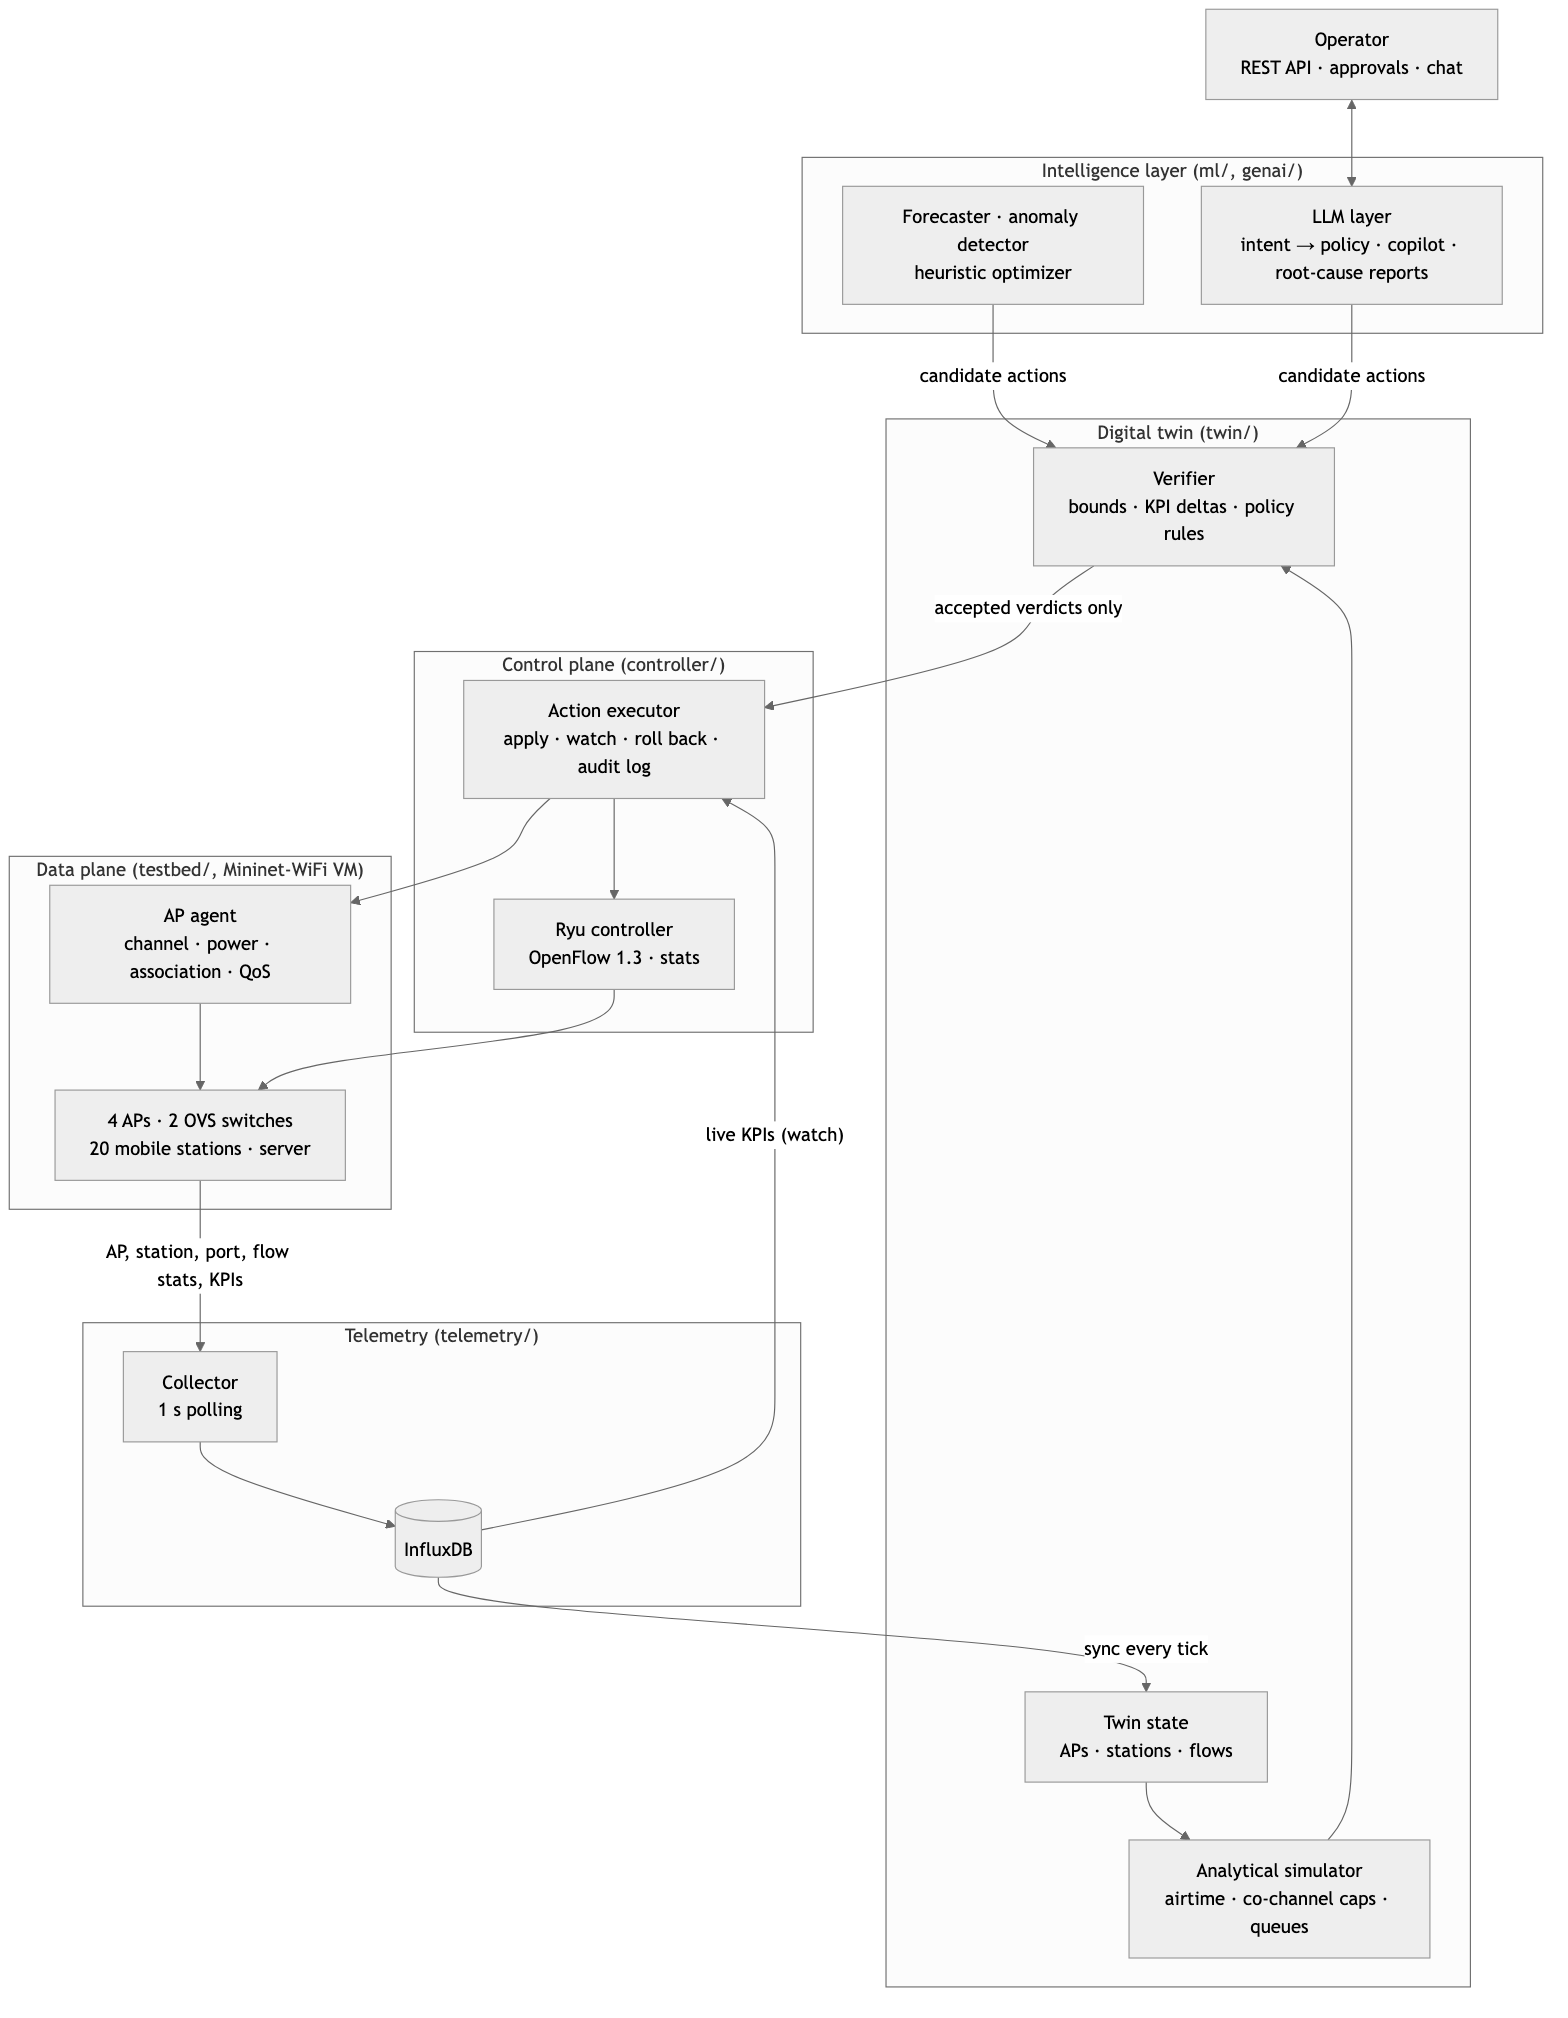
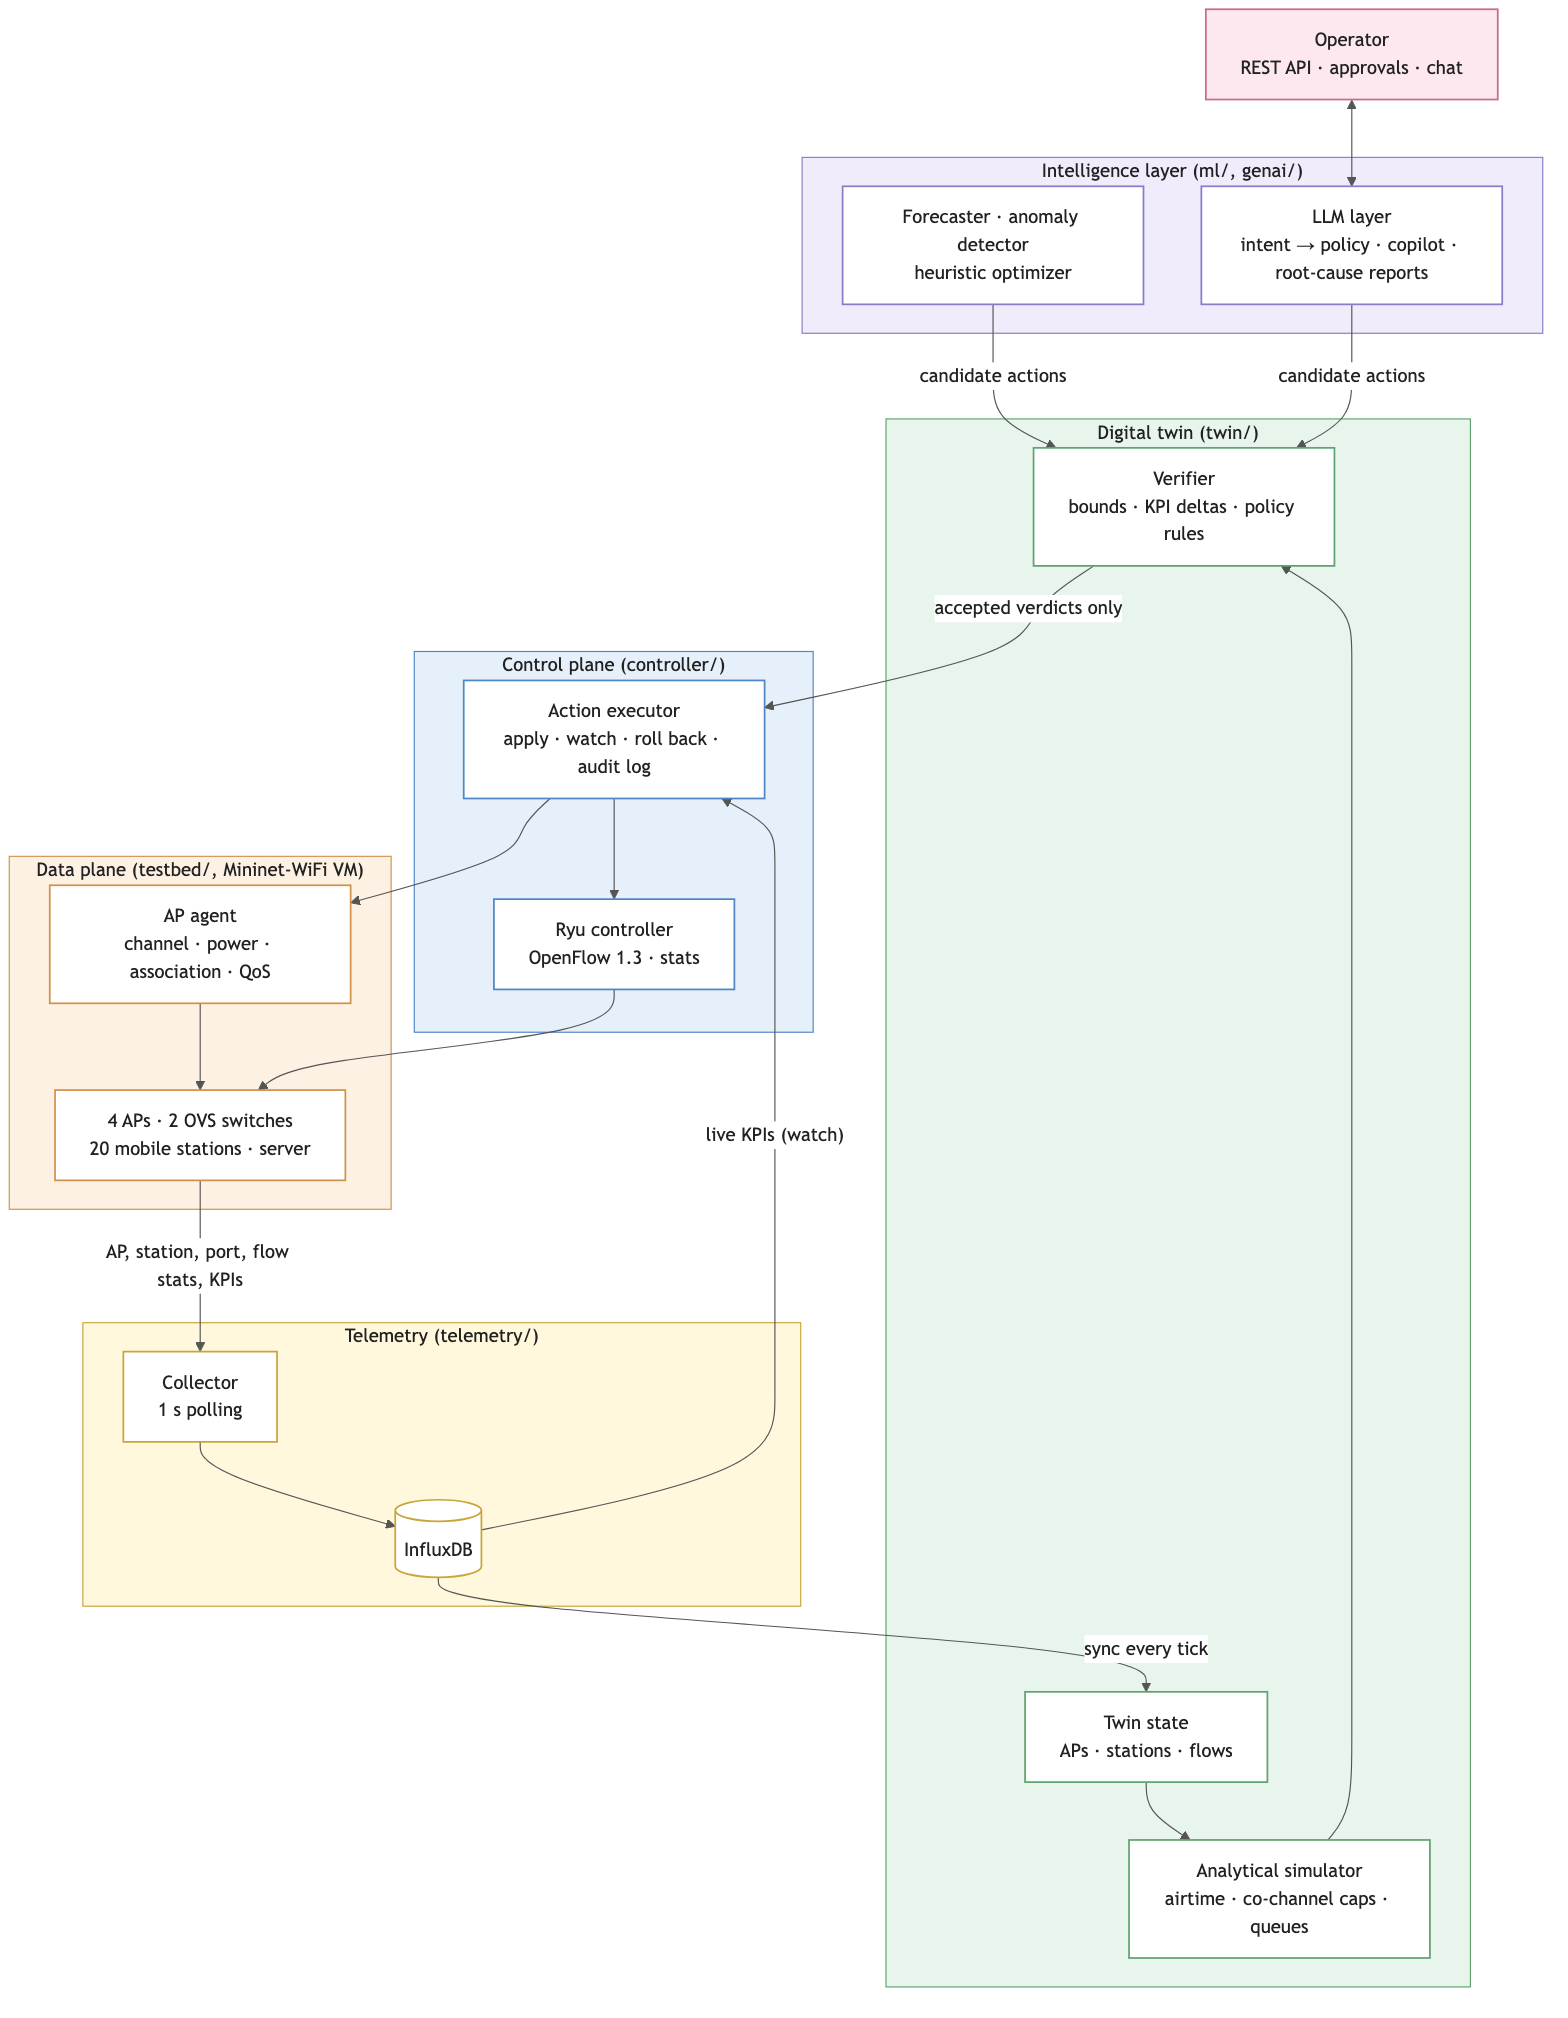
style: add mermaid diagram themes, styling, and structural boxes to documentation figures

diff --git a/docs/report/03_architecture.md b/docs/report/03_architecture.md
@@ -7,6 +7,7 @@
 The system is a closed control loop around an emulated campus Wi-Fi network. Its central design choice is the position of the digital twin. The twin sits **between the components that propose changes and the component that makes them**, so every proposed change, whether it comes from a heuristic optimizer or from a language model, is tested on the twin before it can reach the network. Figure 3.1 shows the four layers and the telemetry path beside them.
 
 ```mermaid
+%%{init: {"theme": "base", "themeVariables": {"primaryColor": "#ffffff", "primaryTextColor": "#222222", "primaryBorderColor": "#666666", "lineColor": "#555555", "edgeLabelBackground": "#ffffff", "clusterBkg": "#fafafa", "clusterBorder": "#999999"}}}%%
 flowchart TB
     OP["Operator<br/>REST API · approvals · chat"]
 
@@ -48,6 +49,24 @@ flowchart TB
     NET -- "AP, station, port, flow stats, KPIs" --> COL --> DB
     DB -- "sync every tick" --> ST
     DB -- "live KPIs (watch)" --> EXE
+
+    style INTEL fill:#F1ECFB,stroke:#8B7BC8,color:#222222
+    style TWIN fill:#E8F5EC,stroke:#5FA36E,color:#222222
+    style CTRL fill:#E6F0FA,stroke:#4F86C6,color:#222222
+    style DATA fill:#FDF1E3,stroke:#D4914A,color:#222222
+    style TEL fill:#FFF8DC,stroke:#C9A43A,color:#222222
+    classDef op fill:#FCE8EE,stroke:#C96B86,stroke-width:1.5px
+    classDef intel fill:#ffffff,stroke:#8B7BC8,stroke-width:1.5px
+    classDef twin fill:#ffffff,stroke:#5FA36E,stroke-width:1.5px
+    classDef ctrl fill:#ffffff,stroke:#4F86C6,stroke-width:1.5px
+    classDef data fill:#ffffff,stroke:#D4914A,stroke-width:1.5px
+    classDef tel fill:#ffffff,stroke:#C9A43A,stroke-width:1.5px
+    class OP op
+    class ML,LLM intel
+    class ST,SIM,VER twin
+    class EXE,RYU ctrl
+    class AGENT,NET data
+    class COL,DB tel
 ```
 
 *Figure 3.1: Layers of the system. Decisions flow down the middle and telemetry flows up the side. The only arrow into the control plane comes from the verifier.*
@@ -100,15 +119,24 @@ Two parts of the network are outside OpenFlow's reach, and this shapes the contr
 Figure 3.2 follows one tick of the control loop (every 5 s), from measurement to a kept or rolled-back change.
 
 ```mermaid
+%%{init: {"theme": "base", "themeVariables": {"primaryTextColor": "#222222", "lineColor": "#555555", "actorBkg": "#ffffff", "actorBorder": "#777777", "actorTextColor": "#222222", "signalColor": "#444444", "signalTextColor": "#222222", "labelBoxBkgColor": "#FCE8EE", "labelBoxBorderColor": "#C96B86", "loopTextColor": "#222222", "sequenceNumberColor": "#ffffff"}}}%%
 sequenceDiagram
     autonumber
+    box rgb(253,241,227) Testbed VM
     participant N as Network (VM)
+    participant A as AP agent
+    end
+    box rgb(255,248,220) Telemetry
     participant C as Collector
     participant DB as InfluxDB
+    end
+    box rgb(230,240,250) Control
     participant L as Control loop
-    participant T as Twin
     participant X as Executor
-    participant A as AP agent
+    end
+    box rgb(232,245,236) Digital twin
+    participant T as Twin
+    end
 
     loop every 1 s
         C->>N: GET stats
@@ -149,6 +177,7 @@ The result is a `Verdict`: accepted or not, the predicted and baseline KPIs, the
 **The LLM paths** enter the same pipeline at the verifier, as Figure 3.3 shows. An operator intent is parsed into a `Policy` under a JSON schema. A deterministic compiler, not the model, turns the policy into actions, and those are verified like any other proposal. The copilot and the root-cause explainer read the network through the tool layer and can ask the twin about a change. What they propose is recorded with its verdict and returned to the operator as a suggestion. They hold no means of applying it.
 
 ```mermaid
+%%{init: {"theme": "base", "themeVariables": {"primaryColor": "#ffffff", "primaryTextColor": "#222222", "primaryBorderColor": "#666666", "lineColor": "#555555", "edgeLabelBackground": "#ffffff"}}}%%
 flowchart TB
     Q["Operator question<br/>or anomaly alert"] --> AG["Copilot / explainer"]
     AG -- "get_topology · get_metrics · get_alerts" --> API["REST API"]
@@ -158,6 +187,17 @@ flowchart TB
     API --> AG
     AG --> R["Answer or report<br/>+ evidence + suggested actions"]
     R -. "operator approves and applies<br/>(operator token)" .-> EX["Executor"]
+
+    classDef op fill:#FCE8EE,stroke:#C96B86,stroke-width:1.5px
+    classDef intel fill:#F1ECFB,stroke:#8B7BC8,stroke-width:1.5px
+    classDef api fill:#E6F0FA,stroke:#4F86C6,stroke-width:1.5px
+    classDef twin fill:#E8F5EC,stroke:#5FA36E,stroke-width:1.5px
+    classDef out fill:#FFF8DC,stroke:#C9A43A,stroke-width:1.5px
+    class Q op
+    class AG intel
+    class API,EX api
+    class TW twin
+    class R out
 ```
 
 *Figure 3.3: The LLM's path to the network. The dotted step is taken by a person, never by the model.*

diff --git a/docs/report/05_implementation.md b/docs/report/05_implementation.md
@@ -5,6 +5,7 @@
 The system is written in Python. The controller-side and twin code run on a macOS host. The emulated network runs in an Ubuntu VM on the same machine. Figure 5.1 shows what runs where.
 
 ```mermaid
+%%{init: {"theme": "base", "themeVariables": {"primaryColor": "#ffffff", "primaryTextColor": "#222222", "primaryBorderColor": "#666666", "lineColor": "#555555", "edgeLabelBackground": "#ffffff"}}}%%
 flowchart LR
     subgraph MAC["Host (macOS, Python 3.11)"]
         API["REST API · control loop<br/>twin · executor · alert monitor"]
@@ -29,6 +30,18 @@ flowchart LR
     GEN --> API
     GEN --> OLL
     GRA --> INF
+
+    style MAC fill:#E6F0FA,stroke:#4F86C6,color:#222222
+    style DOCKER fill:#FFF8DC,stroke:#C9A43A,color:#222222
+    style VM fill:#FDF1E3,stroke:#D4914A,color:#222222
+    classDef host fill:#ffffff,stroke:#4F86C6,stroke-width:1.5px
+    classDef store fill:#ffffff,stroke:#C9A43A,stroke-width:1.5px
+    classDef vm fill:#ffffff,stroke:#D4914A,stroke-width:1.5px
+    classDef llm fill:#F1ECFB,stroke:#8B7BC8,stroke-width:1.5px
+    class API,COL host
+    class GEN,OLL llm
+    class INF,GRA store
+    class MN,AG,RY vm
 ```
 
 *Figure 5.1: Deployment. The VM is reached over a host-only network; the API listens on localhost only.*
